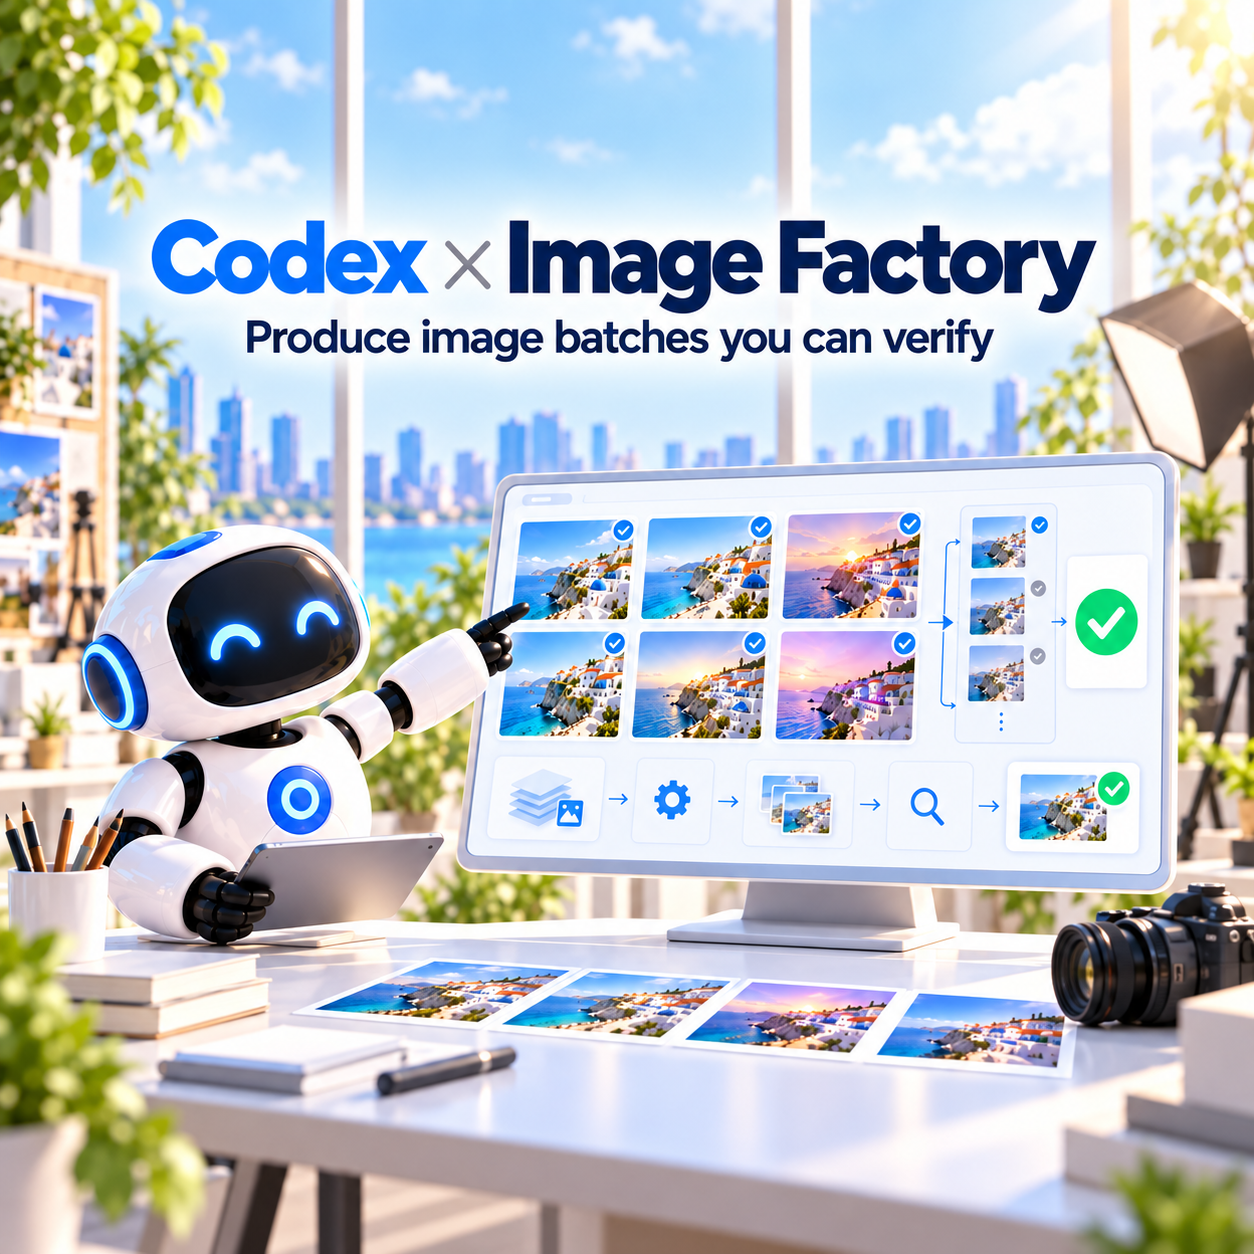
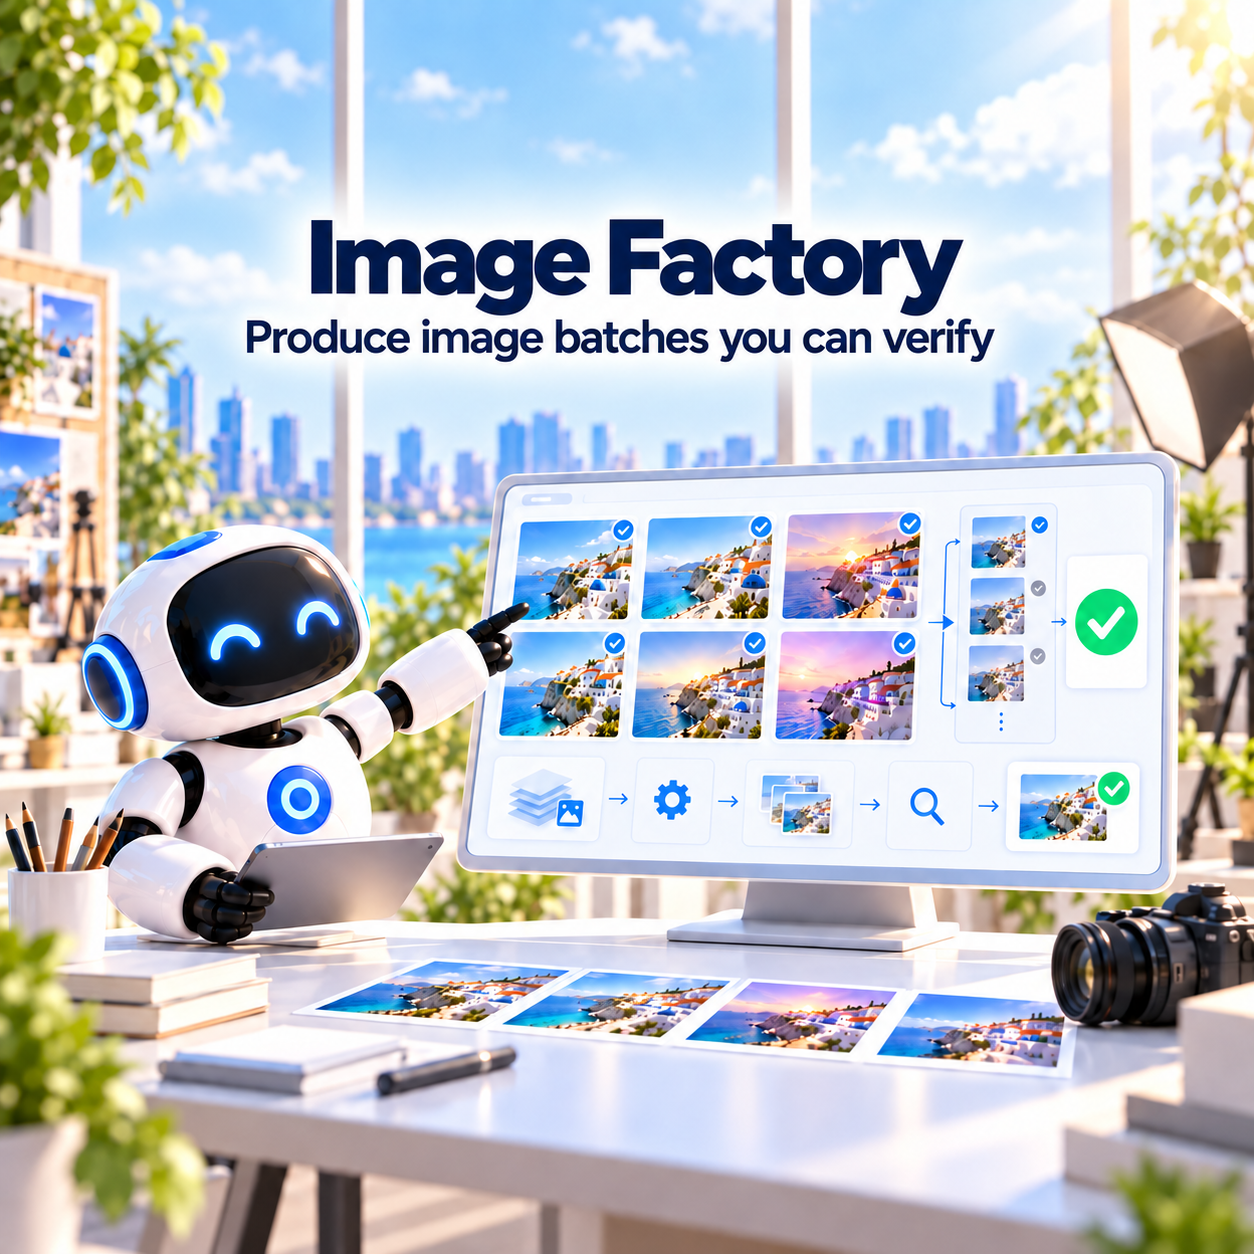
fix: 统一跨宿主公开品牌

diff --git a/tests/test_distribution.py b/tests/test_distribution.py
@@ -14,7 +14,7 @@ PLUGIN_ID = "image-factory"
 DISPLAY_NAME = "Image Factory"
 REPOSITORY = "https://github.com/full-aigc-plugins/image-factory-plugin"
 BRAND_COLOR = "#10B981"
-RELEASE_VERSION = "0.1.5"
+RELEASE_VERSION = "0.1.6"
 
 
 def load_json(relative: str) -> dict:
@@ -170,7 +170,7 @@ class DistributionTests(unittest.TestCase):
         self.assertEqual(marketplace["name"], "partme-ai-image-factory")
         self.assertEqual(
             entries[0]["source"],
-            {"source": "url", "url": REPOSITORY + ".git", "ref": "v0.1.5"},
+            {"source": "url", "url": REPOSITORY + ".git", "ref": "v0.1.6"},
         )
         self.assertEqual(entries[0]["policy"], {"installation": "AVAILABLE", "authentication": "ON_USE"})
 

diff --git a/tests/test_cross_host_naming.py b/tests/test_cross_host_naming.py
@@ -5,7 +5,12 @@ import unittest
 
 
 ROOT = Path(__file__).resolve().parents[1]
-BANNED_PUBLIC_NAMES = ("codex" + "-image-factory", "codex" + " Image Factory", "codex" + "-Image-Factory",)
+BANNED_PUBLIC_NAMES = (
+    "codex" + "-image-factory",
+    "codex" + " Image Factory",
+    "codex" + "-Image-Factory",
+    "Codex" + " × Image Factory",
+)
 TEXT_SUFFIXES = {".md", ".json", ".py", ".mjs", ".js", ".toml", ".yaml", ".yml", ".svg"}
 EXCLUDED_PARTS = {".git", ".mimosa", ".worktrees", ".superpowers", "artifacts", "openspec", "superpowers", "verification", "__pycache__"}
 

diff --git a/tests/test_distribution_extended.py b/tests/test_distribution_extended.py
@@ -8,7 +8,7 @@ from pathlib import Path
 ROOT = Path(__file__).resolve().parents[1]
 PLUGIN_ID = "image-factory"
 DISPLAY_NAME = "Image Factory"
-RELEASE_VERSION = "0.1.5"
+RELEASE_VERSION = "0.1.6"
 PRIOR_RELEASE_SHA = "fff20c9aad9a9cd7893644306c752b2f7231071d"
 
 EXPECTED_SKILLS = (

diff --git a/README.md b/README.md
@@ -1,21 +1,21 @@
 # Image Factory Plugin
 
-![Codex × Image Factory — Produce image batches you can verify](assets/image-factory-hero.png)
+![Image Factory — Produce image batches you can verify](assets/image-factory-hero.png)
 
 <img src="assets/logo.png" alt="Image Factory logo" width="128">
 
 > Turn a reference-driven image task into an auditable production run — validated plan, approved spend, and a hash-verified receipt for every artifact.
 
-[![Version](https://img.shields.io/badge/version-0.1.5-blue)](https://github.com/full-aigc-plugins/image-factory-plugin/releases/tag/v0.1.5)
+[![Version](https://img.shields.io/badge/version-0.1.6-blue)](https://github.com/full-aigc-plugins/image-factory-plugin/releases/tag/v0.1.6)
 [![License](https://img.shields.io/badge/license-Apache--2.0-green)](LICENSE)
 
 [English](README.md) | [简体中文](README.zh-CN.md) · [Install](#installation) · [Quick start](#quick-start) · [Command contract](#command-contract) · [Troubleshooting](#troubleshooting)
 
 ## Positioning
 
-`image-factory` runs image batches through Codex itself. It validates a batch plan, asks Codex's built-in image tool to produce each item, collects every artifact with a recomputed hash, evaluates the batch against deterministic gates, and turns the failures into a new prompt round that you approve before it runs.
+`image-factory` runs image batches through the host's image-generation capability. It validates a batch plan, asks the host image tool to produce each item, collects every artifact with a recomputed hash, evaluates the batch against deterministic gates, and turns the failures into a new prompt round that you approve before it runs.
 
-Version `0.1.5` is a supply-chain hardening candidate with the paid-generation behavior unchanged from `0.1.2`. The seven observed external gates and five authorized generation calls remain historical `0.1.2` evidence until fresh `0.1.5` installation and remote-release checks are recorded. The plugin never generates images itself, holds no API key, and never retries automatically.
+Version `0.1.6` is a supply-chain hardening candidate with the paid-generation behavior unchanged from `0.1.2`. The seven observed external gates and five authorized generation calls remain historical `0.1.2` evidence until fresh `0.1.6` installation and remote-release checks are recorded. The plugin never generates images itself, holds no API key, and never retries automatically.
 
 ### Who it is for
 
@@ -57,7 +57,7 @@ Image batch + receipts + evaluation record
 |---|---|
 | Plugin ID | `image-factory` |
 | Host | Codex CLI or ChatGPT desktop app |
-| Current version | `0.1.5` (supply-chain release candidate — see [Maturity](#maturity)) |
+| Current version | `0.1.6` (supply-chain release candidate — see [Maturity](#maturity)) |
 | Plugin manifest | `.codex-plugin/plugin.json` |
 | MCP configuration | none — the manifest forbids an MCP entry until an MCP server exists |
 | Primary language | Python 3.11+ |
@@ -130,7 +130,7 @@ flowchart LR
 | `scripts/job_ledger.py` | Durable state transitions and secret scrubbing | Execution |
 | `scripts/receipt_store.py` | Per-artifact receipts and re-verification | Remote lifetime |
 | `scripts/job_lock.py` | Cross-process advisory locking | Scheduling |
-| `skills/` (4) | Routing, judging, and recovery instructions for Codex | Runtime enforcement |
+| `skills/` (4) | Routing, judging, and recovery instructions for supported hosts | Runtime enforcement |
 
 ## Compatibility
 
@@ -151,7 +151,7 @@ CI runs on Linux, macOS, and Windows without installing any package at test time
 ### From the plugin marketplace
 
 ```bash
-codex plugin marketplace add full-aigc-plugins/image-factory-plugin --ref v0.1.5
+codex plugin marketplace add full-aigc-plugins/image-factory-plugin --ref v0.1.6
 codex plugin add image-factory@partme-ai-image-factory
 ```
 

diff --git a/PRIVACY.md b/PRIVACY.md
@@ -1,9 +1,9 @@
 # Privacy
 
-Image Factory is a local Codex plugin. It does not include telemetry, advertising, or a hosted data service, and it does not ship credentials.
+Image Factory is a local, cross-host plugin. It does not include telemetry, advertising, or a hosted data service, and it does not ship credentials.
 
-The plugin reads a batch plan and any reference images you explicitly name, and it collects generated images from your local Codex home directory. Batch plans, ledgers, receipts, and scores are written under the job directory you select. Nothing in this repository transmits files or prompts to a service operated by this project.
+The plugin reads a batch plan and any reference images you explicitly name, and it collects generated images from the active host's artifact directory. Batch plans, ledgers, receipts, and scores are written under the job directory you select. Nothing in this repository transmits files or prompts to a service operated by this project.
 
-Image generation is performed by Codex itself using the built-in image tool and your own Codex authentication. Prompts and reference images therefore leave your machine as part of that generation call, under the terms of the account you are already using. The plugin never reads, copies, or stores your authentication material; it invokes Codex and lets Codex handle its own credentials.
+Image generation is performed by the active host using its image tool and your existing host authentication. Prompts and reference images therefore leave your machine as part of that generation call, under the terms of the account you are already using. The plugin never reads, copies, or stores your authentication material; the host handles its own credentials.
 
 Users should review the privacy terms of any connected product before enabling an integration.

diff --git a/docs/Image-Factory-Plugin-Architecture.md b/docs/Image-Factory-Plugin-Architecture.md
@@ -4,7 +4,7 @@
 >
 > | Field | Value |
 > |---|---|
-> | Status | 0.1.5 supply-chain release candidate; runtime behavior unchanged from 0.1.2, fresh release checks pending |
+> | Status | 0.1.6 supply-chain release candidate; runtime behavior unchanged from 0.1.2, fresh release checks pending |
 > | Scope | The implemented batch image core and prompt-discovery layer |
 > | Audience | Maintainers, reviewers, and integrators of this plugin |
 > | Out of scope | Workbench UI, parent project state, and non-image media pipelines |
@@ -193,7 +193,7 @@ A plugin-owned API channel would be a separate extension point with its own cred
 
 ## 11. Deployment, compatibility, and evolution
 
-The plugin is a Codex plugin with a compatibility manifest at `.codex-plugin/plugin.json` and a URL marketplace entry. There is no MCP server, no daemon, and no network listener; the portable root `plugin.json` and `mcp.json` stay intentionally inactive, as `docs/portable-migration.md` records.
+The plugin is a cross-host plugin with Codex, ZCode, and Kimi manifests plus a URL marketplace entry. There is no MCP server, no daemon, and no network listener; the portable root `plugin.json` and `mcp.json` stay intentionally inactive, as `docs/portable-migration.md` records.
 
 Runtime prerequisites: a Codex installation the user already has, a signed-in account whose plan includes image generation, and a writable `$CODEX_HOME/generated_images` directory. `bin/image-factory probe` reports which of these is missing and what to do about it, without network access and without executing anything.
 

diff --git a/docs/verification/runtime.md b/docs/verification/runtime.md
@@ -1,6 +1,6 @@
-# Runtime and release verification: 0.1.5 candidate status
+# Runtime and release verification: 0.1.6 candidate status
 
-The `0.1.5` candidate changes repository identity, synchronization, and release metadata. The evidence table below remains the immutable `0.1.2` runtime record; it is not presented as fresh `0.1.5` installation, remote SHA, or paid-generation proof. Current-candidate evidence is added only after the corresponding check is actually rerun.
+The `0.1.6` candidate changes repository identity, synchronization, and release metadata. The evidence table below remains the immutable `0.1.2` runtime record; it is not presented as fresh `0.1.6` installation, remote SHA, or paid-generation proof. Current-candidate evidence is added only after the corresponding check is actually rerun.
 
 This file is the evidence ledger for the Image Factory 0.1.2 release
 candidate. It intentionally does not reuse runtime, installation, remote commit,
@@ -92,7 +92,7 @@ Codex CLI does not provide one.
 
 ## Local release-candidate preparation
 
-The 0.1.5 manifest, changelog, bilingual README files, architecture documents,
+The 0.1.6 manifest, changelog, bilingual README files, architecture documents,
 distribution tests, and validator output are version-aligned; runtime evidence
 remains explicitly attributed to 0.1.2.
 This local preparation is not remote publication, installation evidence, or a

diff --git a/TERMS.md b/TERMS.md
@@ -4,6 +4,6 @@ Image Factory is provided under the Apache License 2.0 without warranties or gua
 
 Users are responsible for their batch plans, reference images, prompt content, account permissions, usage charges, and compliance with the terms of any connected application or service. You must hold the rights required to use every reference image you submit.
 
-Image generation consumes the usage allowance of the Codex account in use. The plugin must not spend that allowance without the authorization required by its documented workflow: it estimates the batch size up front, requires explicit approval before a run, never retries automatically, and never attempts to bypass or extend an exhausted usage limit.
+Image generation consumes the usage allowance of the active host account. The plugin must not spend that allowance without the authorization required by its documented workflow: it estimates the batch size up front, requires explicit approval before a run, never retries automatically, and never attempts to bypass or extend an exhausted usage limit.
 
 The plugin must not install software, authenticate accounts, or overwrite prior results without authorization. Optimization produces a new round rather than editing a previous one.

diff --git a/docs/Image-Factory-Plugin-Technical-Solution.md b/docs/Image-Factory-Plugin-Technical-Solution.md
@@ -4,7 +4,7 @@
 >
 > | Field | Value |
 > |---|---|
-> | Status | Implemented for the 0.1.5 supply-chain release candidate; runtime behavior unchanged from 0.1.2, fresh release checks pending |
+> | Status | Implemented for the 0.1.6 supply-chain release candidate; runtime behavior unchanged from 0.1.2, fresh release checks pending |
 > | Scope | Decisions, execution contract, failure model, and the platform facts behind them |
 > | Audience | Implementers extending or reviewing this plugin |
 > | Runtime evidence | `docs/verification/` |

diff --git a/docs/Image-Factory-Plugin-Technical-Solution.zh_CN.md b/docs/Image-Factory-Plugin-Technical-Solution.zh_CN.md
@@ -4,7 +4,7 @@
 >
 > | 字段 | 值 |
 > |---|---|
-> | 状态 | 0.1.5 供应链加固 release candidate 的已实现方案；运行行为与 0.1.2 相同，全新发布核验待补 |
+> | 状态 | 0.1.6 供应链加固 release candidate 的已实现方案；运行行为与 0.1.2 相同，全新发布核验待补 |
 > | 范围 | 技术决策、执行契约、失败模型，以及支撑它们的平台事实 |
 > | 读者 | 扩展或评审本插件的实现者 |
 > | 运行证据 | `docs/verification/` |

diff --git a/docs/Image-Factory-Plugin-Architecture.zh_CN.md b/docs/Image-Factory-Plugin-Architecture.zh_CN.md
@@ -4,7 +4,7 @@
 >
 > | 字段 | 值 |
 > |---|---|
-> | 状态 | 0.1.5 供应链加固 release candidate；运行行为与 0.1.2 相同，全新发布核验待补 |
+> | 状态 | 0.1.6 供应链加固 release candidate；运行行为与 0.1.2 相同，全新发布核验待补 |
 > | 范围 | 已实现的批量图像内核与提示词发现层 |
 > | 读者 | 本插件的维护者、审阅者与集成者 |
 > | 不在范围 | 工作台界面、父项目状态与非图片媒体管线 |
